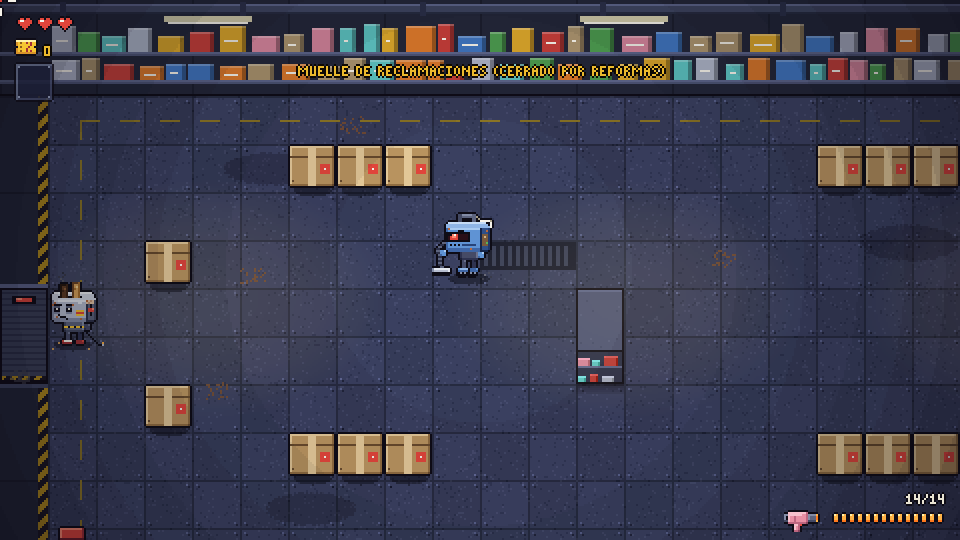
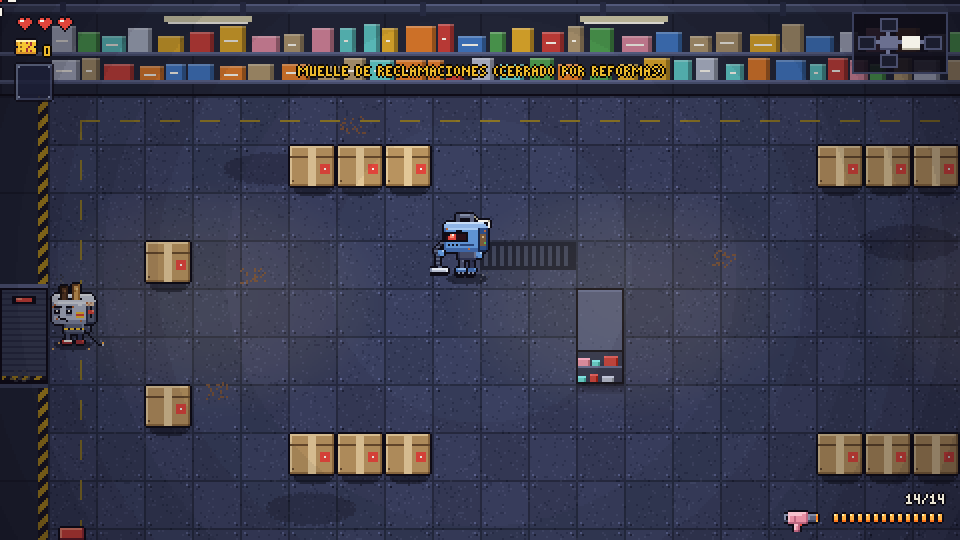
M3: minimapa con salas visitadas, vistas e iconos de jefe, tienda, tesoro y secreta
Claude-Session: https://claude.ai/code/session_01LyCe1NNu5UHUaBH8AeJNkF

Changed region(s): [[0.875, 0.0, 1.0, 0.1481], [0.4375, 0.3852, 0.5312, 0.5333], [0.0312, 0.5037, 0.0938, 0.6222]]

diff --git a/src/render/GameScene.ts b/src/render/GameScene.ts
@@ -4,6 +4,7 @@ import { paintRoom } from '../art/room.ts';
 import { fontText, textWidth } from '../art/font.ts';
 import { BOSS_AWAY_LINE, DEATH_STAMPS, DOORS_OPEN_LINES, DOWN_HINT, DOWN_STAMP, DOWN_TITLE, downReport, RESTOCK_LINE, TURBO_LINE } from '../data/texts.ts';
 import { doorCells } from '../sim/room.ts';
+import { minimap } from '../sim/minimap.ts';
 import { activeWarnings, createWorld, PICKUP_DELAY, DT, enemyAltitude, gunPivot, isRolling, sourceTelegraph, step, BODY_HEIGHT } from '../sim/world.ts';
 import type { DownCause, Enemy, SimEvent, World } from '../sim/world.ts';
 import { Rng } from '../sim/rng.ts';
@@ -88,6 +89,22 @@ export interface GameStateForTests {
 
 /** Pixels of a rolled-up shutter still showing under the lintel (with its pilot light). */
 const SHUTTER_ROLLED = 9;
+/** Minimap: size of a room and distance between rooms (px on the 480 x 270 screen). */
+const MAP_CELL_W = 9;
+const MAP_CELL_H = 7;
+const MAP_STEP_X = 11;
+const MAP_STEP_Y = 9;
+/** Minimap icons (5 px wide at most), drawn in the middle of the room. */
+const MAP_ICONS: Partial<Record<string, { rows: string[]; color: number }>> = {
+  // A skull: the boss.
+  boss: { rows: ['.###.', '#.#.#', '#####', '.#.#.'], color: 0xe0453b },
+  // A shopping trolley: the shop.
+  shop: { rows: ['#....', '.####', '.###.', '.#.#.'], color: 0xf6c431 },
+  // A gift box with its bow: the treasure.
+  treasure: { rows: ['.#.#.', '#####', '#.#.#', '#####'], color: 0x5cc2c0 },
+  // A question mark: the secret room (only once found).
+  secret: { rows: ['##.', '..#', '.#.', '...', '.#.'], color: 0xd3849a },
+};
 /** Milliseconds of the fade between rooms. */
 const ROOM_FADE_OUT = 110;
 const ROOM_FADE_IN = 170;
@@ -153,6 +170,7 @@ export class GameScene extends Phaser.Scene {
   private carry: World | null = null;
   /** Fading out towards the next room. */
   private leaving = false;
+  private mapG: Phaser.GameObjects.Graphics | null = null;
 
   constructor() {
     super('game');
@@ -184,6 +202,7 @@ export class GameScene extends Phaser.Scene {
     this.bulletSprites = new Map();
     this.pickupSprites = new Map();
     this.particles = [];
+    this.mapG = null;
     this.floats = [];
     this.hearts = [];
     this.ammoPips = [];
@@ -270,6 +289,7 @@ export class GameScene extends Phaser.Scene {
     this.reloadBar = this.add.graphics().setDepth(80000);
     this.warn = this.add.graphics().setDepth(84000);
     this.crosshair = this.hud(this.add.image(0, 0, 'mira')).setDepth(100000);
+    if (this.world.floor) this.drawMinimap();
 
     const cam = this.cameras.main;
     cam.setBounds(0, 0, room.w, room.h);
@@ -802,6 +822,61 @@ export class GameScene extends Phaser.Scene {
    * One shutter sprite per door. Walking into a combat room brings them down with a slam; in any
    * other room they are already up (rolled into the lintel, green light).
    */
+  /**
+   * The floor plan in the top right corner: rooms visited (grey), the one the toaster is in
+   * (white), and the ones seen through their doors (dark outline), with icons for the boss, the
+   * shop and the treasure. Drawn once per room (the scene rebuilds on every door).
+   */
+  private drawMinimap(): void {
+    const cells = minimap(this.world);
+    if (cells.length === 0) return;
+    const gx0 = Math.min(...cells.map((c) => c.gx));
+    const gy0 = Math.min(...cells.map((c) => c.gy));
+    const gw = Math.max(...cells.map((c) => c.gx)) - gx0 + 1;
+    const gh = Math.max(...cells.map((c) => c.gy)) - gy0 + 1;
+    const pad = 3;
+    const W = gw * MAP_STEP_X - (MAP_STEP_X - MAP_CELL_W) + pad * 2;
+    const H = gh * MAP_STEP_Y - (MAP_STEP_Y - MAP_CELL_H) + pad * 2;
+    const x0 = VIEW_W - 6 - W;
+    const y0 = 6;
+    this.mapG?.destroy();
+    const g = this.hud(this.add.graphics()).setDepth(94000);
+    this.mapG = g;
+    // Dark enough to read over the colourful back-wall shelves.
+    g.fillStyle(0x0e0c16, 0.85).fillRect(x0, y0, W, H);
+    g.lineStyle(1, 0x3a3f5c, 1).strokeRect(x0 + 0.5, y0 + 0.5, W - 1, H - 1);
+    const at = (c: { gx: number; gy: number }): { x: number; y: number } => ({ x: x0 + pad + (c.gx - gx0) * MAP_STEP_X, y: y0 + pad + (c.gy - gy0) * MAP_STEP_Y });
+    // Corridors first, so the rooms sit on top of them.
+    g.fillStyle(0x6b7090, 1);
+    for (const c of cells) {
+      const p = at(c);
+      for (const d of c.links) {
+        if (d === 'E') g.fillRect(p.x + MAP_CELL_W, p.y + (MAP_CELL_H >> 1) - 1, MAP_STEP_X - MAP_CELL_W, 2);
+        else if (d === 'S') g.fillRect(p.x + (MAP_CELL_W >> 1) - 1, p.y + MAP_CELL_H, 2, MAP_STEP_Y - MAP_CELL_H);
+      }
+    }
+    for (const c of cells) {
+      const p = at(c);
+      if (c.state === 'seen') {
+        g.fillStyle(0x1b1d2e, 1).fillRect(p.x, p.y, MAP_CELL_W, MAP_CELL_H);
+        g.lineStyle(1, 0x4a4f6e, 1).strokeRect(p.x + 0.5, p.y + 0.5, MAP_CELL_W - 1, MAP_CELL_H - 1);
+      } else {
+        g.fillStyle(c.state === 'here' ? 0xf4f1e8 : 0x6b7090, 1).fillRect(p.x, p.y, MAP_CELL_W, MAP_CELL_H);
+        // Shade along the bottom, like the room tiles.
+        g.fillStyle(c.state === 'here' ? 0xb9b3a3 : 0x4a4f6e, 1).fillRect(p.x, p.y + MAP_CELL_H - 1, MAP_CELL_W, 1);
+      }
+      const icon = MAP_ICONS[c.kind];
+      if (icon) {
+        const ix = p.x + Math.floor((MAP_CELL_W - icon.rows[0]!.length) / 2);
+        const iy = p.y + Math.floor((MAP_CELL_H - icon.rows.length) / 2);
+        g.fillStyle(c.state === 'here' ? 0x0e0c16 : icon.color, 1);
+        icon.rows.forEach((row, j) => [...row].forEach((ch, i) => {
+          if (ch === '#') g.fillRect(ix + i, iy + j, 1, 1);
+        }));
+      }
+    }
+  }
+
   private makeShutters(doors: ReadonlyArray<{ dir: string; x: number; y: number; w: number; h: number }>): void {
     this.shutters = [];
     const slam = this.world.doorsShut && this.world.room.kind === 'combat';

diff --git a/tests/minimap.test.ts b/tests/minimap.test.ts
@@ -1,0 +1,50 @@
+import { test } from 'node:test';
+import assert from 'node:assert/strict';
+import { minimap } from '../src/sim/minimap.ts';
+import { OPPOSITE } from '../src/sim/floor.ts';
+import { createWorld, enterRoom } from '../src/sim/world.ts';
+
+test('minimapa: al empezar, la entrada y las salas que se ven por sus puertas', () => {
+  const w = createWorld({ seed: 'minimapa', floor: true });
+  const f = w.floor!;
+  const cells = minimap(w);
+  const start = f.layout.rooms[f.layout.start]!;
+  const here = cells.filter((c) => c.state === 'here');
+  assert.deepEqual(here.map((c) => c.id), [start.id]);
+  const seen = cells.filter((c) => c.state === 'seen').map((c) => c.id).sort();
+  assert.deepEqual(seen, start.doors.filter((d) => !d.secret).map((d) => d.to).sort());
+  assert.equal(cells.length, 1 + seen.length);
+  assert.ok(!cells.some((c) => c.kind === 'secret'), 'la secreta no sale');
+  for (const c of cells) assert.equal(c.danger, false, 'de las vistas no se sabe nada');
+});
+
+test('minimapa: al cruzar, la sala anterior queda visitada y aparecen las nuevas vecinas', () => {
+  const w = createWorld({ seed: 'minimapa', floor: true });
+  const f = w.floor!;
+  const door = f.layout.rooms[f.layout.start]!.doors.find((d) => !d.secret && f.layout.rooms[d.to]!.kind === 'combat')!;
+  enterRoom(w, door.to, OPPOSITE[door.dir]);
+  const cells = minimap(w);
+  const byId = new Map(cells.map((c) => [c.id, c]));
+  assert.equal(byId.get(door.to)!.state, 'here');
+  assert.equal(byId.get(door.to)!.danger, w.enemies.length > 0);
+  assert.equal(byId.get(f.layout.start)!.state, 'visited');
+  for (const d of f.layout.rooms[door.to]!.doors) if (!d.secret) assert.ok(byId.has(d.to), `se ve la vecina ${d.to}`);
+  // Each known pair of neighbours is linked from both sides.
+  for (const c of cells) for (const dir of c.links) {
+    const to = f.layout.rooms[c.id]!.doors.find((d) => d.dir === dir)!.to;
+    assert.ok(byId.get(to)!.links.includes(OPPOSITE[dir]), `pasillo ${c.id}-${to} de ida y vuelta`);
+  }
+});
+
+test('minimapa: con todo visitado salen todas las salas, la secreta también', () => {
+  const w = createWorld({ seed: 'minimapa', floor: true });
+  for (const r of w.floor!.rooms) r.visited = true;
+  const cells = minimap(w);
+  assert.equal(cells.length, w.floor!.layout.rooms.length);
+  assert.ok(cells.some((c) => c.kind === 'secret'));
+  assert.deepEqual(cells.filter((c) => c.kind === 'boss').length, 1);
+});
+
+test('minimapa: sin planta (una sala suelta) no hay mapa', () => {
+  assert.deepEqual(minimap(createWorld({ seed: 'x' })), []);
+});

diff --git a/src/sim/minimap.ts b/src/sim/minimap.ts
@@ -1,0 +1,50 @@
+// What the minimap shows: the rooms of the floor the player knows about. Pure: reads the world.
+import type { Dir, RoomKind } from './floor.ts';
+import type { World } from './world.ts';
+
+export type MapState = 'here' | 'visited' | 'seen';
+
+export interface MapCell {
+  id: number;
+  gx: number;
+  gy: number;
+  kind: RoomKind;
+  /** Where the player is, been, or only seen through a door of a room it has been in. */
+  state: MapState;
+  /** A combat room with enemies left (only known once visited). */
+  danger: boolean;
+  /** Normal doors towards other known rooms (each drawn once, from either side). */
+  links: Dir[];
+}
+
+/**
+ * Rooms visited and their neighbours through normal doors. The secret room stays off the map
+ * until the player gets into it.
+ */
+export function minimap(w: World): MapCell[] {
+  const f = w.floor;
+  if (!f) return [];
+  const known = new Map<number, MapState>();
+  for (const fr of f.layout.rooms) {
+    if (!f.rooms[fr.id]!.visited) continue;
+    known.set(fr.id, fr.id === f.current ? 'here' : 'visited');
+  }
+  for (const id of [...known.keys()]) {
+    for (const d of f.layout.rooms[id]!.doors) if (!d.secret && !known.has(d.to)) known.set(d.to, 'seen');
+  }
+  const out: MapCell[] = [];
+  for (const [id, state] of known) {
+    const fr = f.layout.rooms[id]!;
+    const st = f.rooms[id]!;
+    out.push({
+      id,
+      gx: fr.gx,
+      gy: fr.gy,
+      kind: fr.kind,
+      state,
+      danger: state !== 'seen' && !st.cleared,
+      links: fr.doors.filter((d) => known.has(d.to) && (!d.secret || (known.get(d.to) !== 'seen' && state !== 'seen'))).map((d) => d.dir),
+    });
+  }
+  return out.sort((a, b) => a.id - b.id);
+}

diff --git a/tools/e2e.ts b/tools/e2e.ts
@@ -329,6 +329,10 @@ try {
   await page.keyboard.up(bkey);
   await page.waitForTimeout(500);
   await shot('16d-planta-vuelta.png');
+  // The minimap with the whole floor known (as if every room had been visited): icons and corridors.
+  await page.evaluate('(() => { const s = window.__GE__.scene; s.world.floor.rooms.forEach((r) => { r.visited = true; }); s.drawMinimap(); })()');
+  await page.waitForTimeout(100);
+  await shot('16e-minimapa.png');
 } catch (e) {
   failed = true;
   console.error('✖ e2e:', (e as Error).message);

diff --git a/docs/BITACORA.md b/docs/BITACORA.md
@@ -2,6 +2,14 @@
 
 La entrada más reciente va arriba. Cada sesión añade una.
 
+## 2026-10-29 04:05 — Hito M3 — Minimapa
+
+- Hecho: `src/sim/minimap.ts` (puro): `minimap(world)` devuelve las salas conocidas de la planta (la actual, las visitadas y las vecinas que se ven por sus puertas normales), con su tipo, su estado y los pasillos entre ellas. En el juego se dibuja arriba a la derecha sobre un panel oscuro con borde: sala actual en blanco, visitadas en gris con sombra abajo, vistas solo con el contorno, y pasillos de 2 px. Iconos de 5 × 4 px: calavera roja para el jefe, carrito amarillo para la tienda, caja de regalo turquesa para el tesoro e interrogación rosa para la secreta (solo cuando se encuentre). Se dibuja una vez por sala (la escena se reconstruye en cada puerta).
+- Decisiones: los iconos se ven ya en las salas vecinas sin visitar, como en los juegos del género: así el jugador puede decidir si va a la tienda o al jefe. La sala secreta no sale hasta entrar en ella. Fondo al 85 % porque al 62 % no se leía sobre las estanterías de colores de la pared del fondo (comprobado en la captura).
+- Medidas: 157 tests en verde (4 nuevos en `tests/minimap.test.ts`). Bot y equilibrio sin cambios (solo dibujo). e2e ~60 fps con captura nueva `16e-minimapa.png` (la planta entera conocida).
+- Problemas conocidos: con plantas muy alargadas el mapa puede llegar a 9 salas de ancho (unos 100 px); de momento no tapa nada importante.
+- Siguiente paso: la última tarea de M3, las casillas de la planta 1 (almacén) con variaciones y decoración; después revisar los criterios y cerrar M3.
+
 ## 2026-10-29 03:30 — Hito M3 — Transición entre salas: la planta entera se juega
 
 - Hecho: `createWorld({ seed, floor: true })` monta una planta generada (`World.floor`: la distribución, la sala actual y por sala su plantilla rellena, si se ha visitado, si está limpia y los cupones que quedaron en el suelo). Cada sala recibe una plantilla de su tipo repartida de una baraja barajada (no se repite una de combate hasta agotar las 14) y rellena para su profundidad. En una planta las puertas abiertas son suelo de verdad y las cerradas son pared (`setDoorTiles`); al meterse en el hueco de una puerta abierta (`leavingThrough`) se pasa a la sala vecina (`enterRoom`) y la tostadora aparece delante de la puerta contraria (`entrySpot`), con evento `room`. Las balas y ataques en el aire desaparecen; una sala de combate sin limpiar trae a sus enemigos y baja las persianas; una ya limpia sigue vacía y abierta, con sus cupones donde se quedaron. En el juego, cruzar una puerta congela la imagen, funde a negro en 0,11 s (sonido nuevo `puerta`), y la escena se reconstruye alrededor de la sala nueva con el mismo mundo y entra en 0,17 s; el rótulo de la sala sale en cada entrada y los controles solo al empezar. **La página por defecto es ya una planta entera** (semilla nueva con cada unidad; `?semilla=` fija una); la Sala de Pruebas queda en `?sala=sala-pruebas`. En la sala del jefe, de momento vacía: «La Dirección está reunida · Vuelva usted mañana».

diff --git a/docs/HOJA_DE_RUTA.md b/docs/HOJA_DE_RUTA.md
@@ -69,7 +69,7 @@ las capturas del e2e; el bot la vacía sin caer el 52,5 % de las veces y sobrevi
 - [x] Plantillas de sala hechas a mano (al menos 15) con huecos para enemigos y obstáculos.
 - [x] Generador de planta: grafo de 10–15 salas con entrada, combate, tesoro, tienda, secreta y jefe; tests de conectividad con 10.000 semillas. (La distribución; la planta jugable llega con las plantillas, las puertas y la transición.)
 - [x] Puertas que se cierran durante el combate (persianas con piloto rojo). (Cerrar y abrir; cruzarlas llega con la transición entre salas.)
-- [ ] Minimapa.
+- [x] Minimapa.
 - [ ] Juego de casillas de la planta 1 (almacén) con variaciones y decoración.
 - [x] Transición entre salas. (Fundido entre salas; la planta generada es ya la partida por defecto. Las puertas secretas siguen cerradas hasta que haya algo que las abra.)
 
